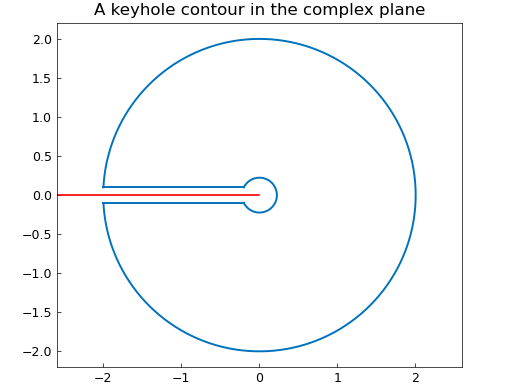
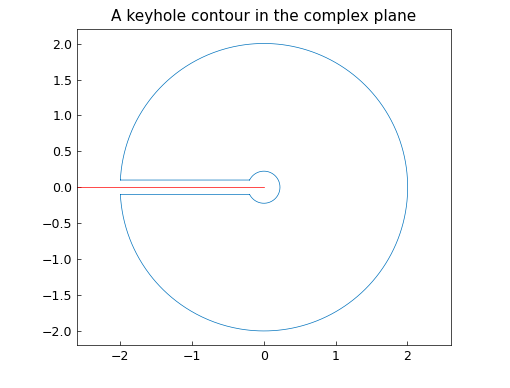
Use source Chebfun operations for the Keyhole contour example
Reproduce contour joins, separate complex powers and library differentiation
and integration. Publish actual isolated CPU output and the reference-size
figure with observed MATLAB default line widths. Record remaining renderer
and roundoff differences and verified evidence in the handoff.

diff --git a/examples/complex/keyhole_contour.py b/examples/complex/keyhole_contour.py
@@ -13,14 +13,13 @@ matplotlib.use("Agg")
 import os
 import sys
 
-import jax.numpy as jnp
 import matplotlib.pyplot as plt
 import numpy as np
 
 sys.path.insert(0, os.path.join(os.path.dirname(__file__), '..', '..', 'src'))
 
 import chebfunjax as cj
-from chebfunjax.plotting import chebfun_style
+from chebfunjax.plotting import chebfun_style, matlab_plot
 from chebfunjax.plotting import save_chebfun_figure as _savefig
 
 chebfun_style()
@@ -31,52 +30,34 @@ _IMG = os.path.join(_HERE, '..', '..', 'docs', 'images', 'complex')
 def run():
     os.makedirs(_IMG, exist_ok=True)
 
-    f = lambda z: jnp.log(z) * jnp.tanh(z)  # noqa: E731
+    f = lambda z: cj.log(z) * cj.tanh(z)  # noqa: E731
     r, R, e = 0.2, 2.0, 0.1
     c = [complex(-R, e), complex(-r, e), complex(-r, -e),
          complex(-R, -e)]
+    s = cj.chebfun(lambda s: s, domain=(0.0, 1.0))
+    z = (c[0] + s * (c[1] - c[0])).join(
+        c[1] * c[2] ** s / c[1] ** s,
+        c[2] + s * (c[3] - c[2]),
+        c[3] * c[0] ** s / c[3] ** s,
+    )
 
-    # The four pieces of the keyhole, each parametrized on [0, 1],
-    # with analytic derivatives:
-    segs = []
-    # 1. top of the keyhole (line c1 -> c2)
-    segs.append((lambda s: c[0] + s * (c[1] - c[0]),
-                 lambda s: (c[1] - c[0]) * jnp.ones_like(s)))
-    # 2. inner circle: c2 * (c3/c2)^s
-    # c2*c3^s/c2^s with separate principal logs: the LONG way
-    # around (through the positive real axis), avoiding the cut
-    w2 = np.log(c[2]) - np.log(c[1])
-    segs.append((lambda s: c[1] * jnp.exp(s * w2),
-                 lambda s: c[1] * w2 * jnp.exp(s * w2)))
-    # 3. bottom of the keyhole (line c3 -> c4)
-    segs.append((lambda s: c[2] + s * (c[3] - c[2]),
-                 lambda s: (c[3] - c[2]) * jnp.ones_like(s)))
-    # 4. outer circle: c4 * (c1/c4)^s
-    w4 = np.log(c[0]) - np.log(c[3])
-    segs.append((lambda s: c[3] * jnp.exp(s * w4),
-                 lambda s: c[3] * w4 * jnp.exp(s * w4)))
-
-    # Plot the contour
-    ss = np.linspace(0, 1, 600)
-    fig, ax = plt.subplots(figsize=(7.6, 6.0))
-    for zfun, _ in segs:
-        zv = np.asarray(zfun(jnp.asarray(ss)))
-        ax.plot(zv.real, zv.imag, 'C0', lw=1.4)
-    ax.plot([-2.6, 0], [0, 0], '-r', lw=1.2)
+    # Plot the joined complex Chebfun, then overlay the branch cut.
+    fig, ax = plt.subplots(figsize=(5.1, 3.88))
+    matlab_plot(z, ax=ax, linewidth=0.5)
     ax.set_aspect("equal")
+    ax.set_title("A keyhole contour in the complex plane", fontsize=11)
+    ax.plot([-2.6, 0], [0, 0], "-r", lw=0.5)
     ax.set_xlim(-2.6, 2.6)
-    ax.set_title("A keyhole contour in the complex plane", fontsize=12)
+    ax.tick_params(labelsize=9, width=0.5, length=3, direction="in")
+    # MATLAB default normalized axes position; equal aspect contracts the
+    # wider box to the source contour's data ratio.
+    ax.set_position([0.13, 0.11, 0.775, 0.815])
     fig.set_facecolor("white")
-    fig.tight_layout()
     _savefig(fig, os.path.join(_IMG, "KeyholeContour_01.png"), size=(510, 388))
     plt.close(fig)
 
-    # I = sum over segments of int f(z(s)) z'(s) ds
-    I = 0.0 + 0.0j
-    for zfun, dzfun in segs:
-        g = cj.chebfun(lambda s, zf=zfun, dzf=dzfun:
-                       f(zf(s)) * dzf(s), domain=(0.0, 1.0))
-        I += complex(np.asarray(g.sum()))
+    # Source sequence: integral of f(z) times the contour derivative.
+    I = complex(np.asarray((f(z) * z.diff()).sum()))
     Iexact = 4j * np.pi * np.log(np.pi / 2)
     print("I =")
     print(f"  {I.real:.15f} + {I.imag:.15f}i")

diff --git a/HANDOFF_CODEX.md b/HANDOFF_CODEX.md
@@ -1,5 +1,25 @@
 # chebfunjax: handoff to a Codex agent (2026-10-02)
 
+## Keyhole source computation and observed plot defaults (2026-10-07)
+
+KeyholeContour now constructs the joined complex Chebfun with the source's
+separate complex powers, then integrates `log(z)*tanh(z)*diff(z)` through library
+operations. It replaces the separate hand-derived segment derivatives. The
+source-observed MATLAB line widths are 0.5 points; the reference blue is retained.
+Actual isolated CPU output: I = 2e-15 + 5.674755637702230i, absolute error
+6.498891186147061e-15. The actual stdout and 510x388 figure are published.
+
+Run passed with source/runtime origins verified, stable inputs and no survivors;
+wall153.545s, sampled summed peak1,986,756KiB. Evidence layer
[1 lines of base64/hex data omitted]
+requires the preserved full base archive/receipt named below. Actual MATLAB
+metadata is in explain_v1_matlab_source_evidence_20261007.zip (SHA
+ace59b5ada86dca8e47ccd19e4dde655bb06db4c250982a5b1047ea379718d54).
+Reference/source-runtime color, raster stroke, axis and roundoff differences
+remain documented; this is source-computation progress, not full pixel parity.
+New publication CI needs verification. Full goal remains incomplete.
+
+
 ## Quiver source scaling and vector calculus page (2026-10-07; takes precedence below)
 
 Two- and three-component planar quiver plots now share JAX scaling and open-head

diff --git a/docs/examples/complex/KeyholeContour.md b/docs/examples/complex/KeyholeContour.md
@@ -53,7 +53,7 @@ I = sum(f(z)*diff(z))
 
 ```text
 I =
-  -0.000000000000001 + 5.674755637702228i
+  0.000000000000002 + 5.674755637702230i
 ```
 
 For the function we chose above, one can compute this integral exactly.
@@ -75,7 +75,7 @@ error = abs(I - Iexact)
 
 ```text
 error =
-     4.539650895000687e-15
+     6.498891186147061e-15
 ```
 
 ---
